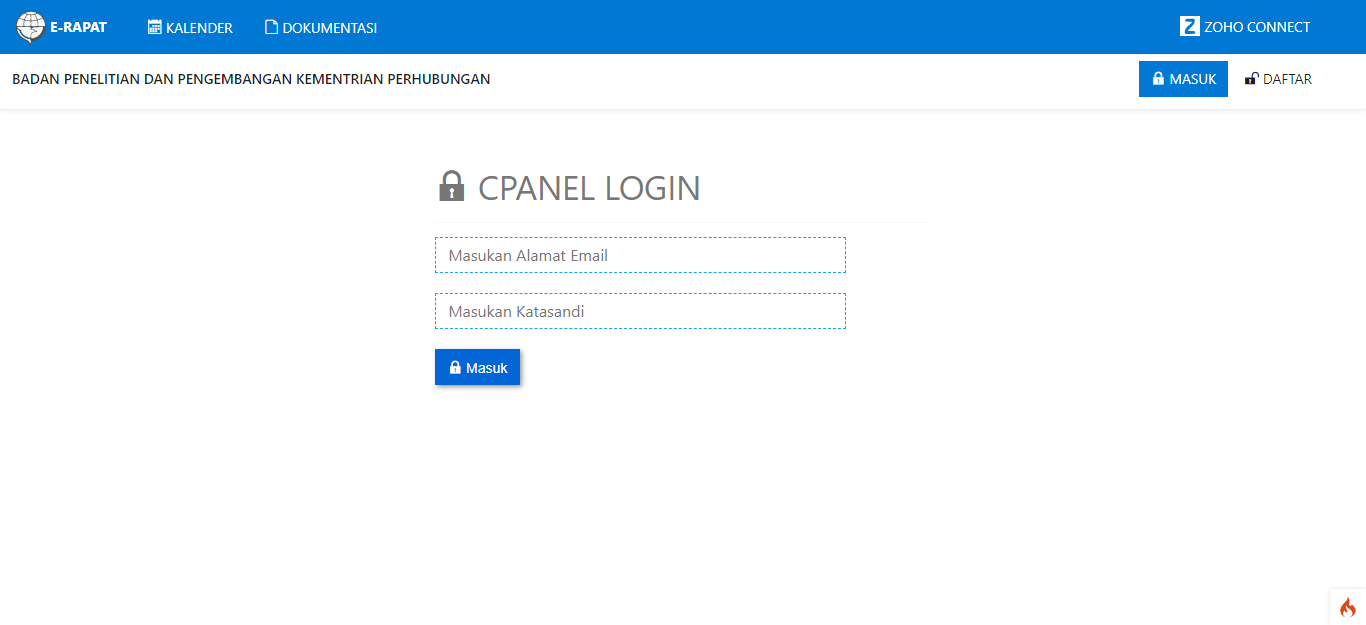
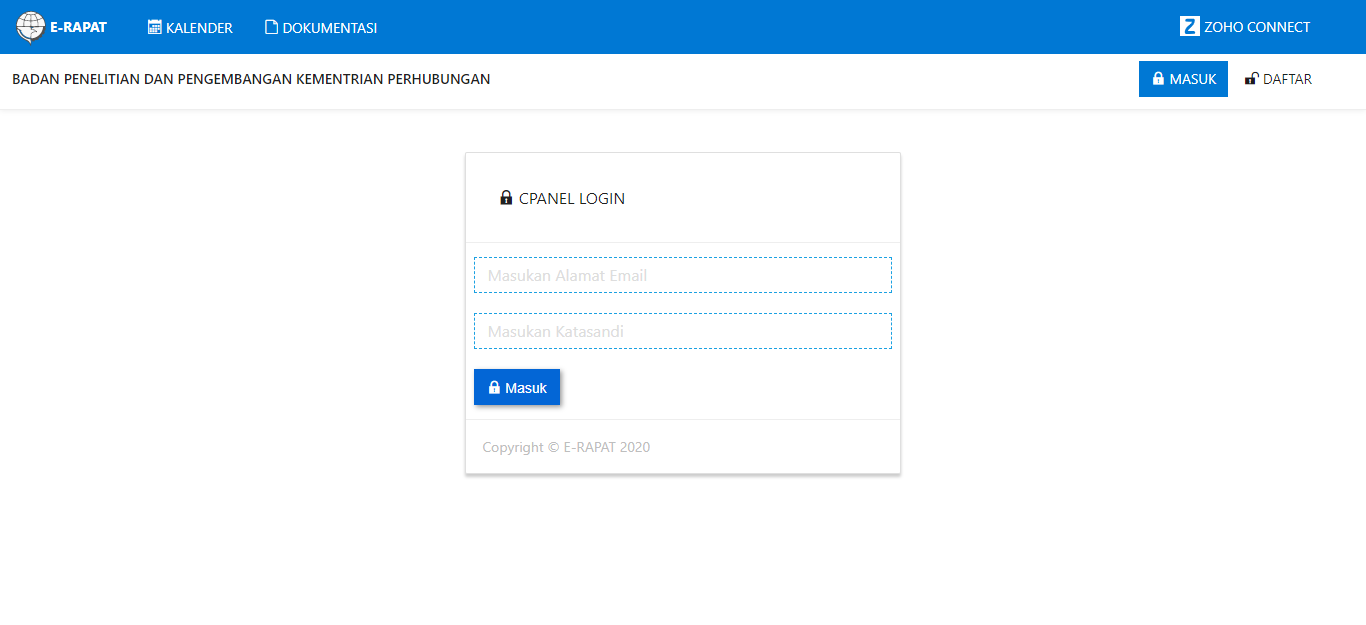
FRONTEND - login refactor

diff --git a/assets/locals/css/custom-metro.css b/assets/locals/css/custom-metro.css
@@ -112,3 +112,31 @@ body {
   font-size: 14px;
   padding: 10px 0;
 }
+
+.card {
+  box-shadow: 0 3px 3px 0 rgba(0, 0, 0, 0.2);
+  transition: 0.3s;
+  width: calc(40% - 1rem) !important;
+}
+.card-header {
+  border-bottom: 1px #eee solid;
+  padding: 2rem;
+  font-size: 16px;
+  border-radius: 0 0 0 0;
+  display: block;
+}
+
+::placeholder {
+  color: #dddddd;
+  opacity: 1; /* Firefox */
+}
+
+:-ms-input-placeholder {
+  /* Internet Explorer 10-11 */
+  color: #dddddd;
+}
+
+::-ms-input-placeholder {
+  /* Microsoft Edge */
+  color: #dddddd;
+}

diff --git a/app/Views/cpanel/auth/view_login.php b/app/Views/cpanel/auth/view_login.php
@@ -8,23 +8,28 @@ navbar_before_login($nav_title);
 
 <div class="container">
     <!-- start content here -->
-    <div class="grid ">
-        <div class="row d-flex flex-column flex-justify-center h-vh-50 mt-10">
-            <div class="cell-5 mx-auto block-shadow">
-                <h1><small><span class="icon mif-lock"></span> CPANEL LOGIN</small></h1>
-                <hr class="thin" />
-                <form data-role="validator" method="POST" action="<?= base_url('auth/login') ?>">
+    <div class="row d-flex flex-column flex-justify-center h-vh-100">
+        <div class="card">
+            <div class="card-header">
+                <span class="icon mif-lock"></span> CPANEL LOGIN
+            </div>
+            <div class="card-content p-2">
+                <?php $validation = session()->getFlashdata('validation'); ?>
+                <form data-role="validator" method="POST" action="<?= current_url('auth/login') ?>">
                     <div class="row mb-2">
-                        <div class="cell-sm-10">
-                            <input type="email" placeholder="Masukan Alamat Email" data-validate="required email" data-role="input" class="metro-input" autocomplete="off" autofocus>
+                        <div class="cell-sm-12">
+                            <input type="email" name="email" placeholder="Masukan Alamat Email" data-validate="required email" data-role="input" class="metro-input" autocomplete="off" autofocus>
+                            <?php if ($validation && $validation->hasError('email')) : ?>
+                                <?= $validation->getError('email'); ?>
+                            <?php endif; ?>
                             <span class="invalid_feedback">
                                 Alamat Email tidak boleh kosong atau Salah!
                             </span>
                         </div>
                     </div>
                     <div class="row mb-2">
-                        <div class="cell-sm-10">
-                            <input type="password" placeholder="Masukan Katasandi" data-validate="required" data-role="input" class="metro-input" autocomplete="off">
+                        <div class="cell-sm-12">
+                            <input type="password" name="password" placeholder="Masukan Katasandi" data-validate="required" data-role="input" class="metro-input" autocomplete="off">
                             <span class="invalid_feedback">
                                 Katasandi tidak boleh kosong atau Salah!
                             </span>
@@ -36,6 +41,9 @@ navbar_before_login($nav_title);
                         </div>
                     </div>
                 </form>
+            </div>
+            <div class="card-footer text-center">
+                <span class="fg-gray">Copyright &copy; <?= $footer_title; ?> <?= date('Y'); ?></span>
             </div>
         </div>
     </div>

diff --git a/app/Controllers/Auth.php b/app/Controllers/Auth.php
@@ -2,10 +2,10 @@
 
 namespace App\Controllers;
 
-// use \CodeIgniter\Controller;
+use \CodeIgniter\Controller;
 // use App\Models\DepartmentModel;
 
-class Auth extends BaseController
+class Auth extends Controller
 {
     protected $modelConnect;
 
@@ -27,13 +27,13 @@ class Auth extends BaseController
 
     public function register()
     {
-        $getSubDepartment = $this->modelConnect->find();
+        // $getSubDepartment = $this->modelConnect->find();
 
         // dd($getSubDepartment);
         $data = [
             'page_title' => 'E-RAPAT - Register',
-            'nav_title' => 'register',
-            'getSubDepartment' => $getSubDepartment
+            'nav_title' => 'register'
+            // 'getSubDepartment' => $getSubDepartment
         ];
 
         return view('errors/response/view_unavailable', $data);
@@ -41,8 +41,21 @@ class Auth extends BaseController
 
     public function login()
     {
-        $data = ['page_title' => 'E-RAPAT - Login', 'nav_title' => 'login'];
+        $data = ['page_title' => 'E-RAPAT - Login', 'nav_title' => 'login', 'footer_title' => 'E-RAPAT'];
 
-        return view('cpanel/auth/view_login', $data);
+        if ($this->request->getMethod() == 'post') {
+            $rules = [
+                'email' => 'required',
+                'password' => 'required'
+            ];
+            $validate = $this->validate($rules);
+            if ($validate) {
+
+                echo 'wwkwkwkw';
+            } else {
+                return redirect()->back()->withInput()->with('validation', $this->validator);
+            }
+        }
+        echo view('cpanel/auth/view_login', $data);
     }
 }

diff --git a/app/Config/Routes.php b/app/Config/Routes.php
@@ -21,7 +21,8 @@ $routes->setDefaultController('Main');
 $routes->setDefaultMethod('index');
 $routes->setTranslateURIDashes(false);
 $routes->set404Override();
-$routes->setAutoRoute(true);
+// $routes->setAutoRoute(true);
+$routes->setAutoRoute(false);
 
 /**
  * --------------------------------------------------------------------
@@ -32,7 +33,10 @@ $routes->setAutoRoute(true);
 // We get a performance increase by specifying the default
 // route since we don't have to scan directories.
 $routes->get('/', 'Main::calendar');
-$routes->get('/login', 'Auth::index');
+$routes->get('/documentation', 'Documentation::index');
+$routes->get('/zohoconnect', 'ZohoConnect::index');
+$routes->match(['get', 'post'], '/auth/login', 'Auth::login');
+$routes->match(['get', 'post'], '/auth/register', 'Auth::register');
 
 /**
  * --------------------------------------------------------------------
